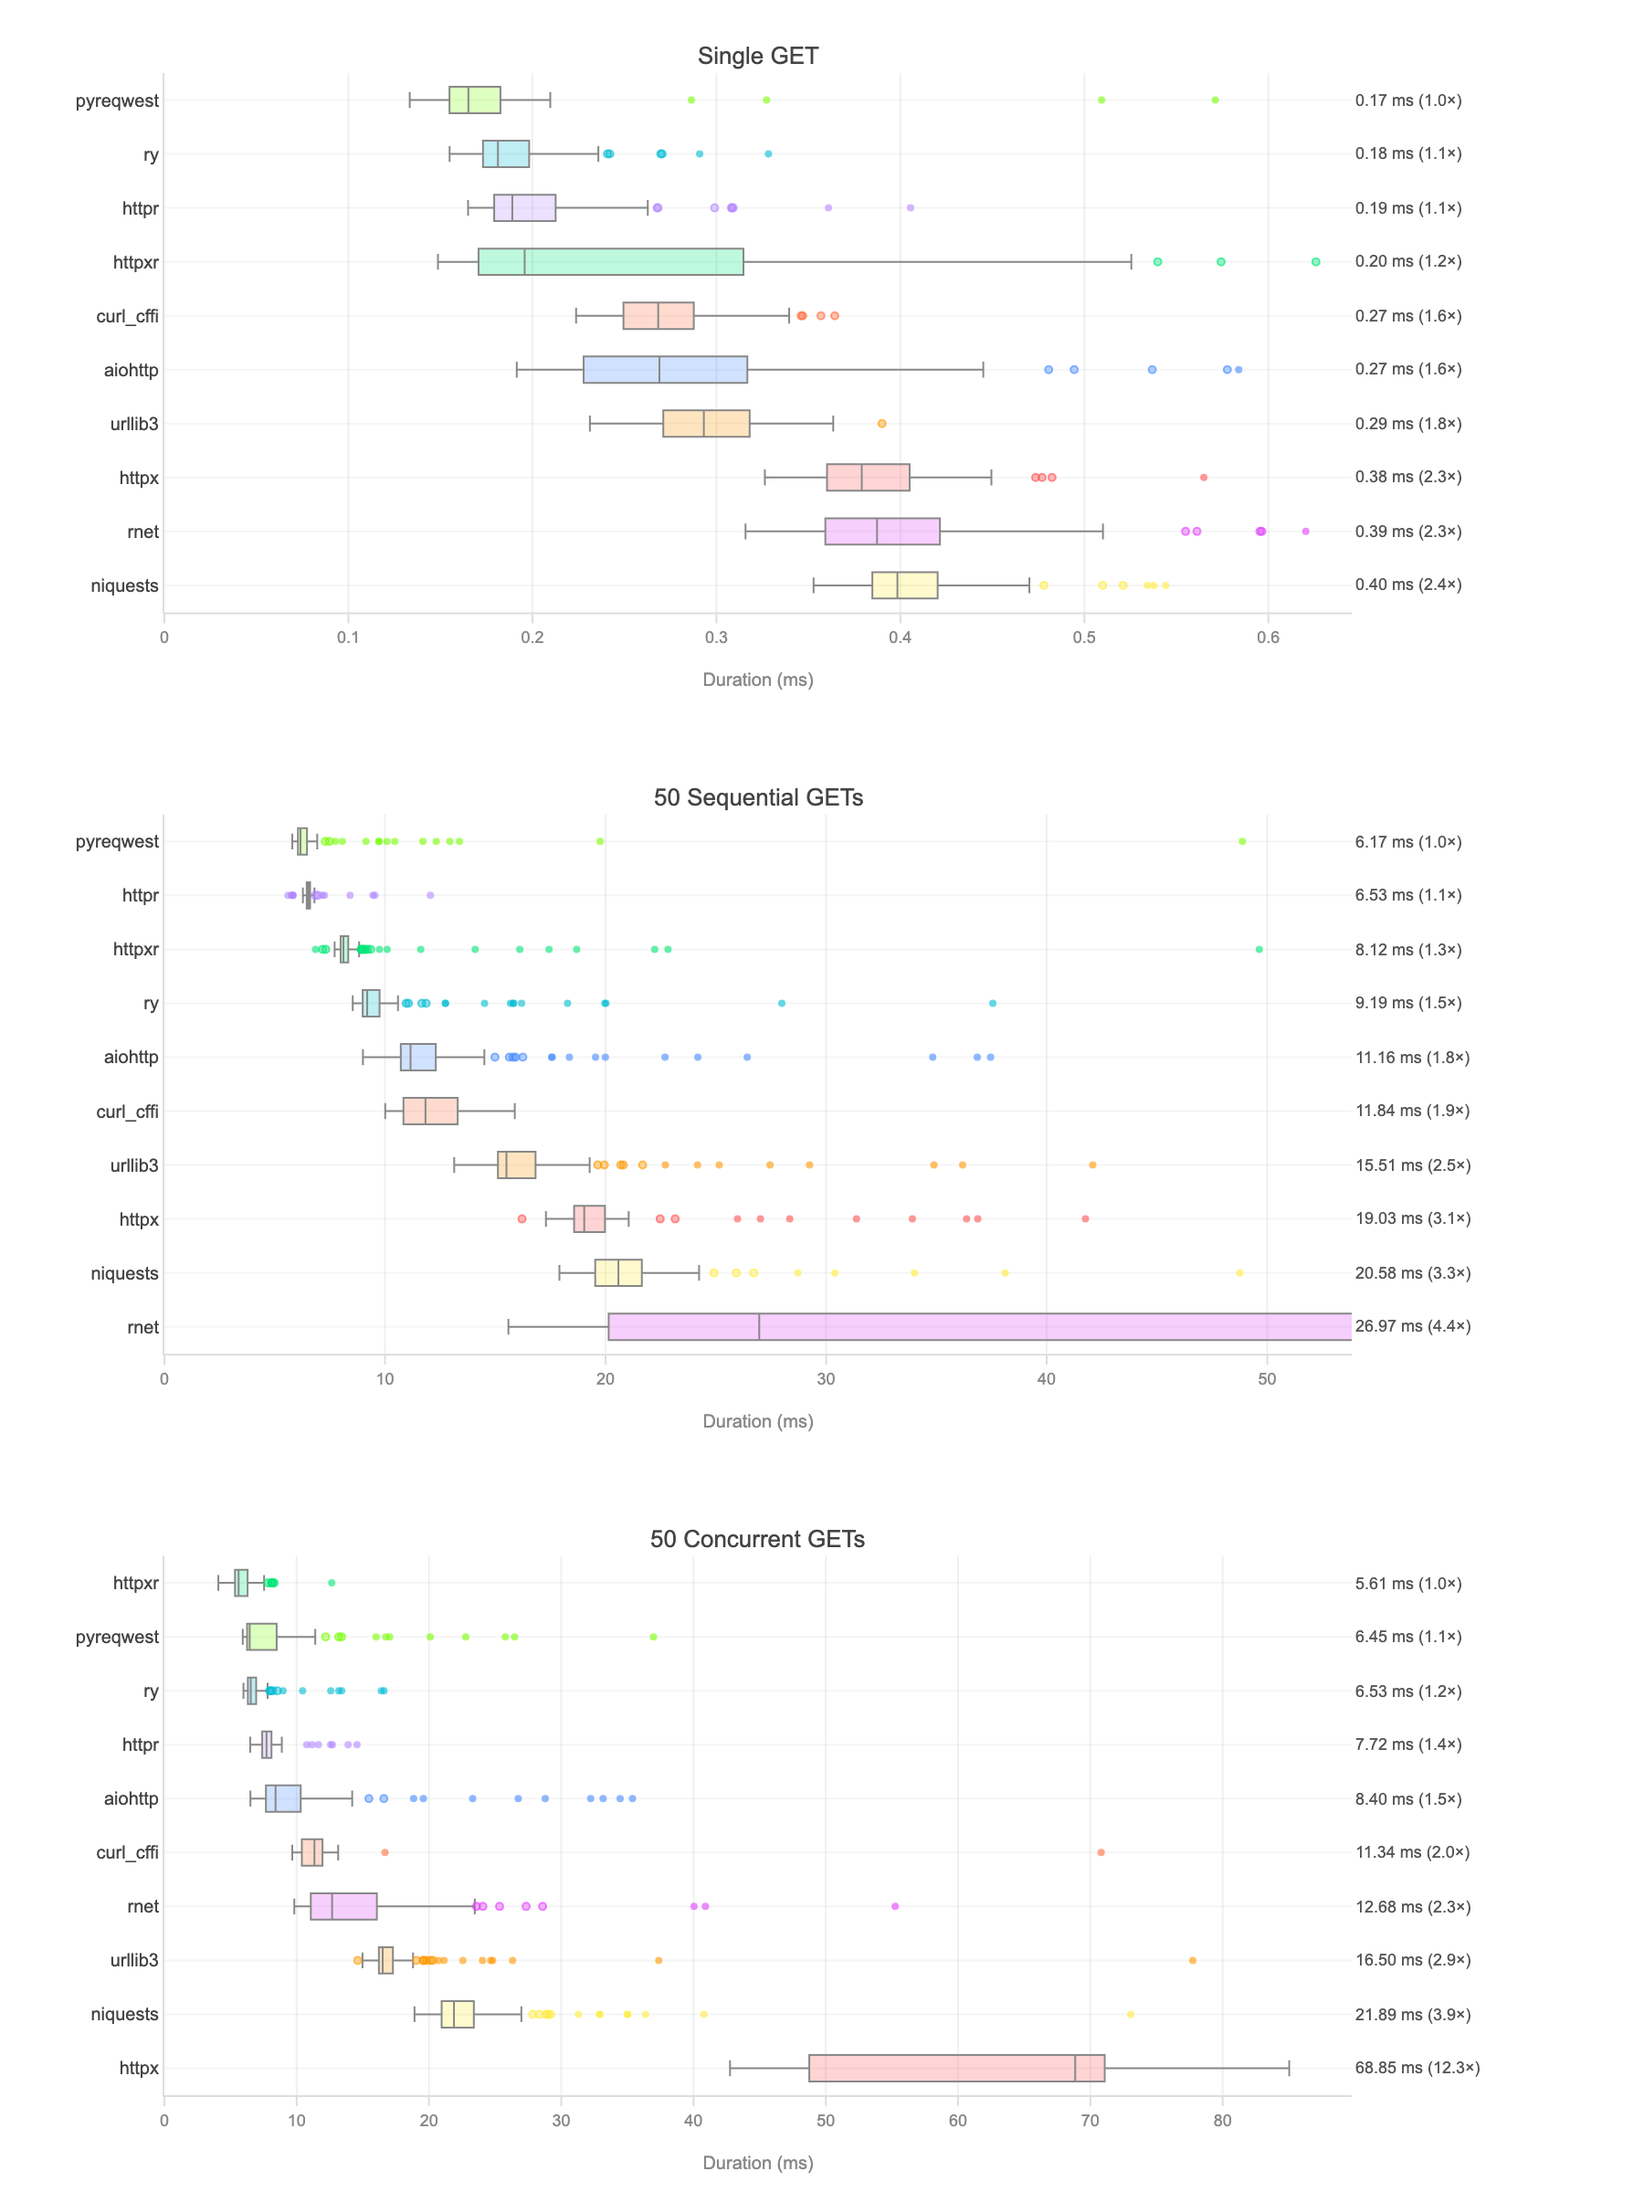
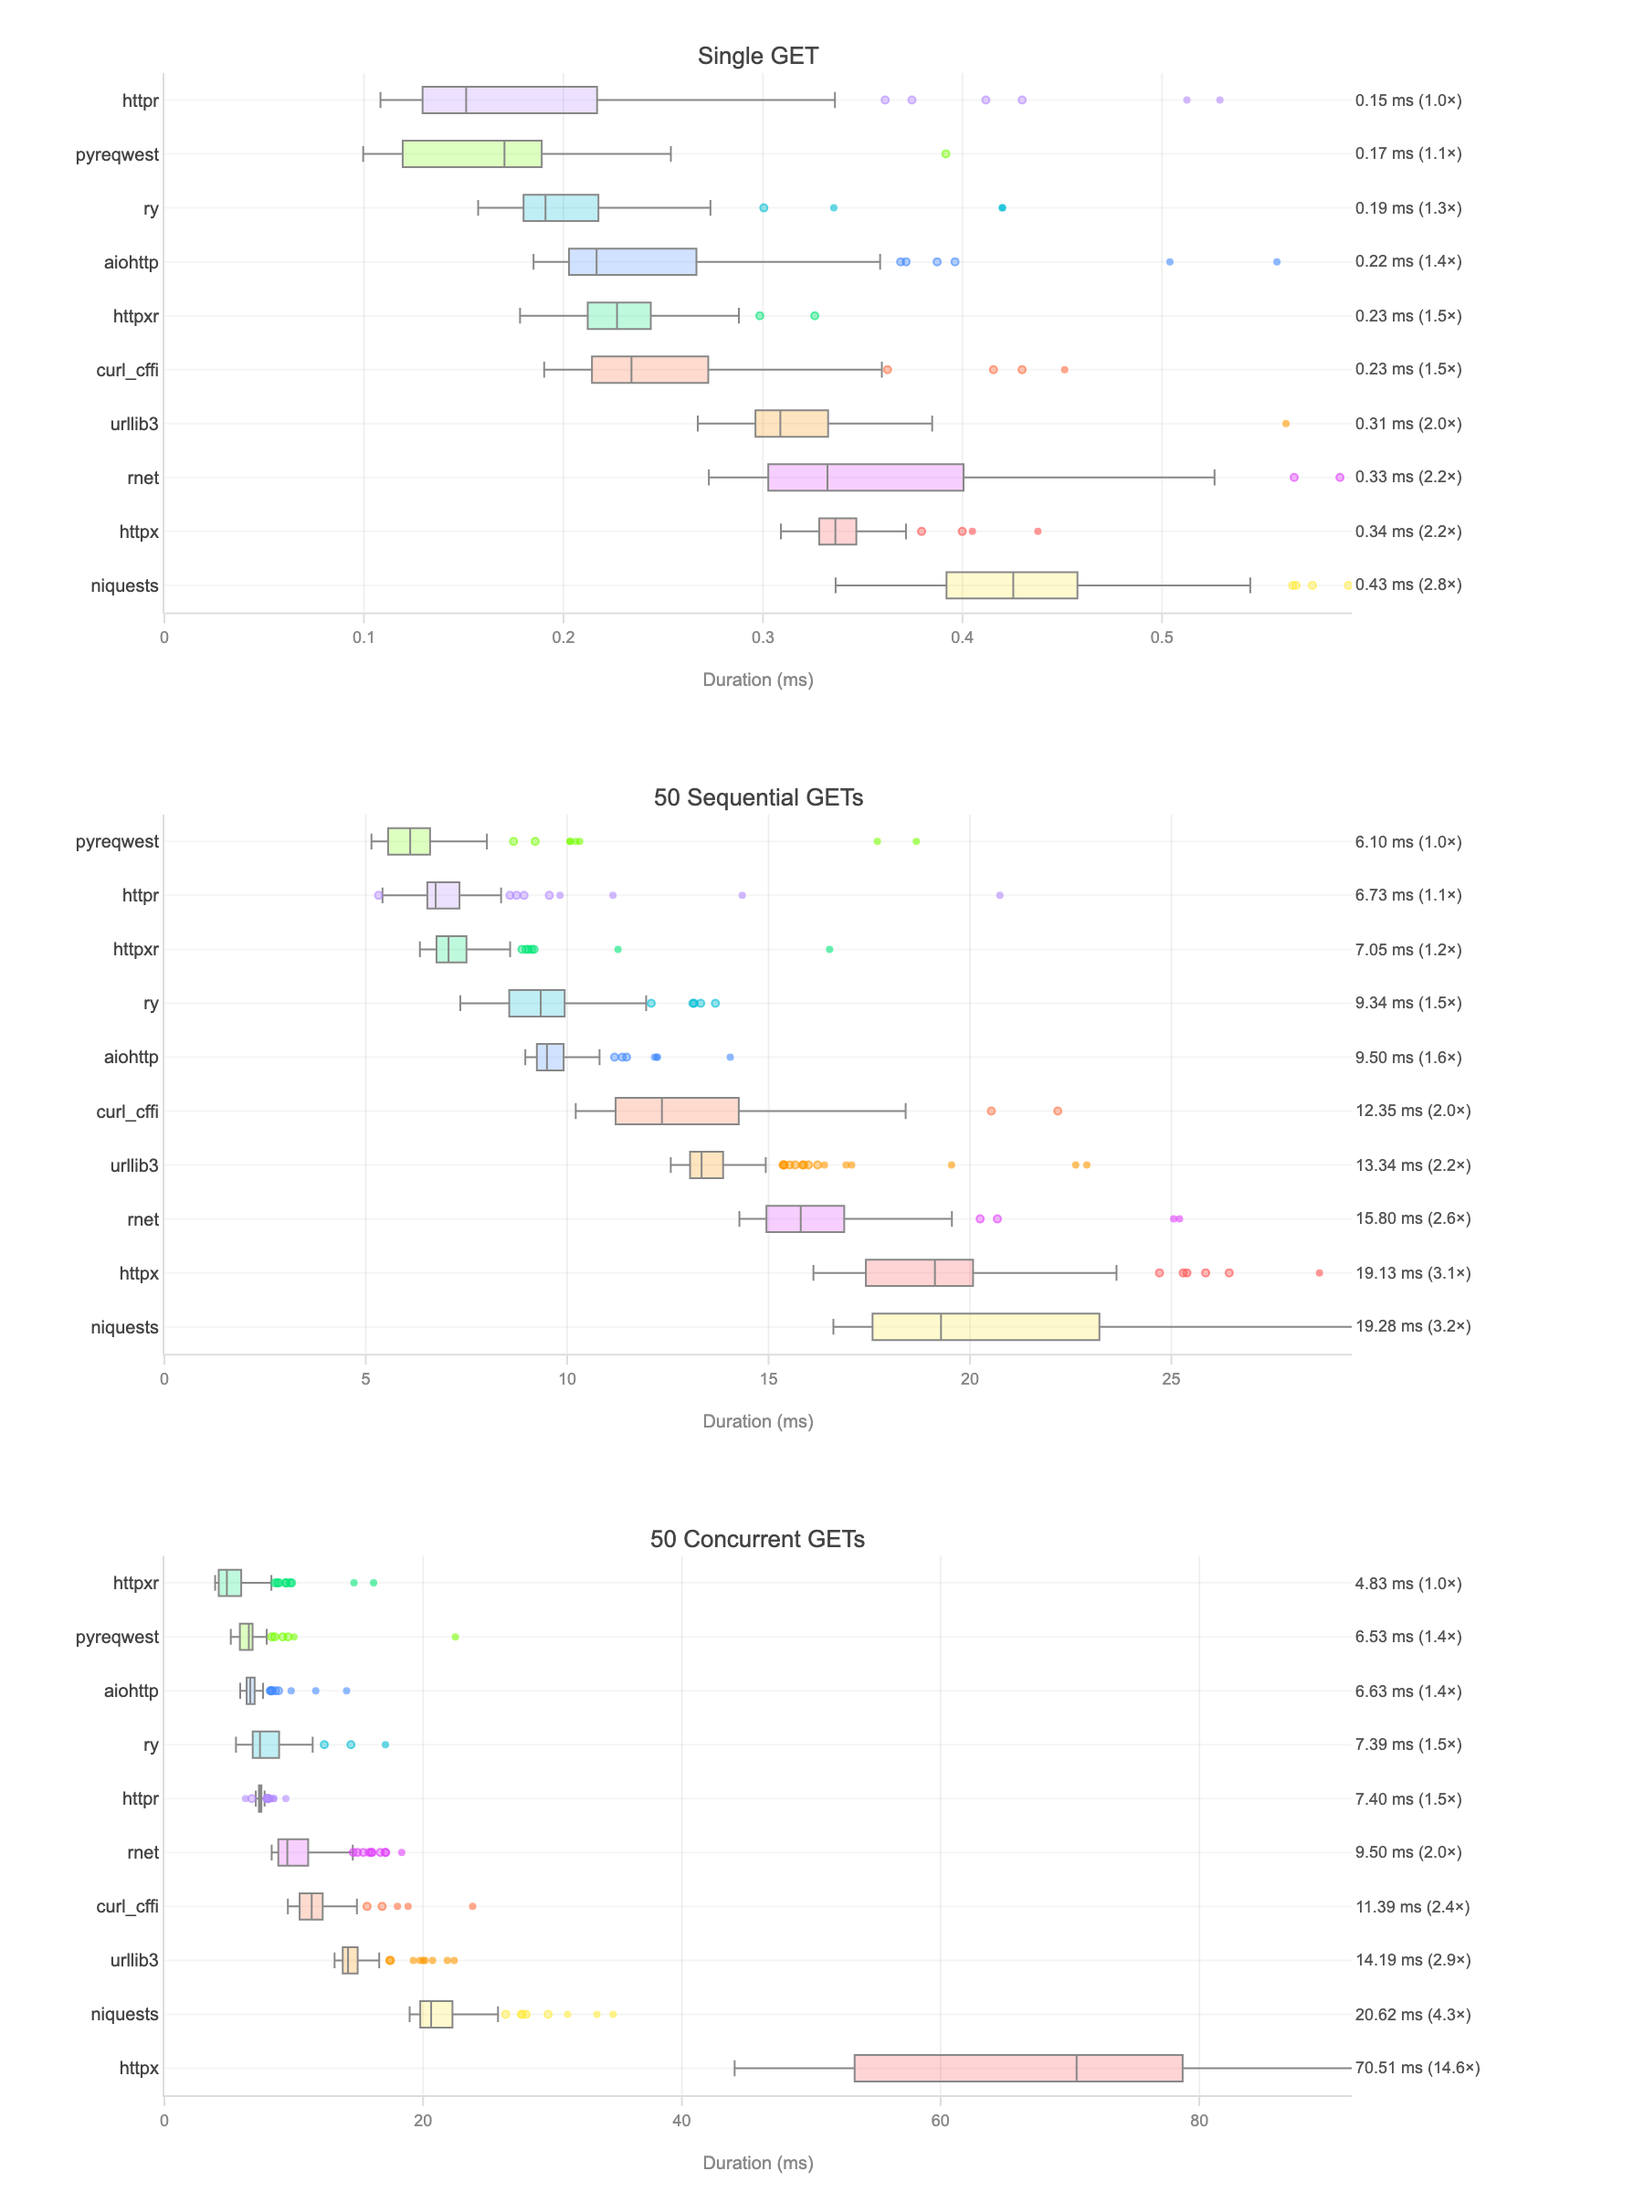
docs: update benchmark results for v0.30.12
Single GET:       0.23ms (#5)
50 Sequential:    7.05ms (#3)
50 Concurrent:    4.83ms (#1)

diff --git a/README.md b/README.md
@@ -62,9 +62,9 @@ Scenarios: **Single GET**, **50 Sequential GETs**, **50 Concurrent GETs**.
 
 | Scenario | httpxr | httpr | pyreqwest | ry | aiohttp | curl_cffi | urllib3 | rnet | httpx | niquests |
 |:---|---:|---:|---:|---:|---:|---:|---:|---:|---:|---:|
-| Single GET | **0.20** | 0.19 | 0.17 | 0.18 | 0.27 | 0.27 | 0.29 | 0.39 | 0.38 | 0.40 |
-| 50 Sequential GETs | **8.12** | 6.53 | 6.17 | 9.19 | 11.16 | 11.84 | 15.51 | 26.97 | 19.03 | 20.58 |
-| 50 Concurrent GETs | **5.61** | 7.72 | 6.45 | 6.53 | 8.40 | 11.34 | 16.50 | 12.68 | 68.85 | 21.89 |
+| Single GET | **0.23** | 0.15 | 0.17 | 0.19 | 0.22 | 0.23 | 0.31 | 0.33 | 0.34 | 0.43 |
+| 50 Sequential GETs | **7.05** | 6.73 | 6.10 | 9.34 | 9.50 | 12.35 | 13.34 | 15.80 | 19.13 | 19.28 |
+| 50 Concurrent GETs | **4.83** | 7.40 | 6.53 | 7.39 | 6.63 | 11.39 | 14.19 | 9.50 | 70.51 | 20.62 |
 
 > **Key takeaways:**
 > - **httpxr** is the **fastest full-featured httpx-compatible client** — on par with raw Rust libraries
